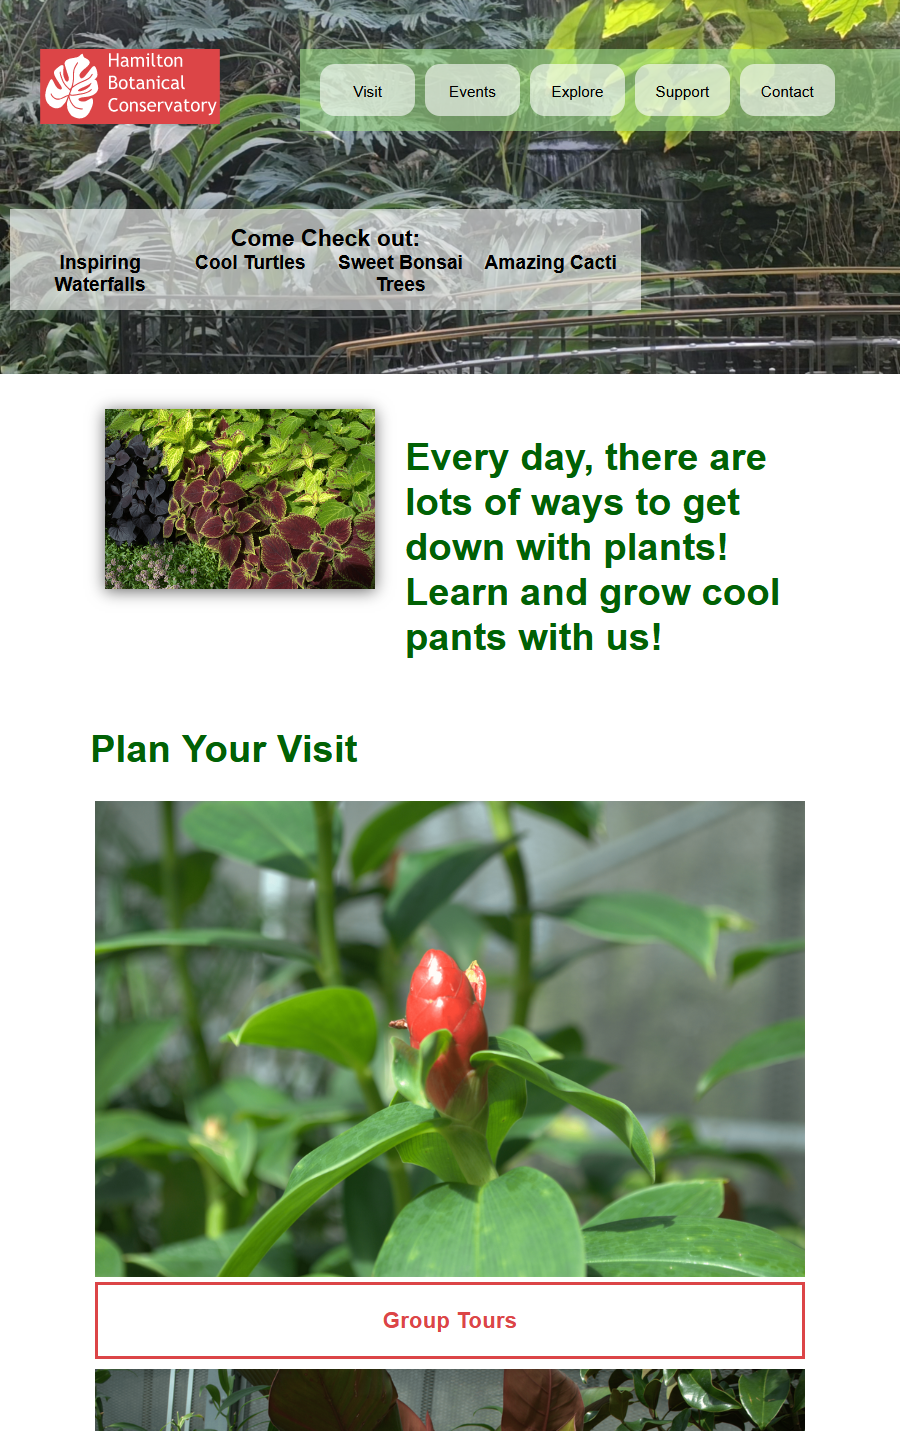
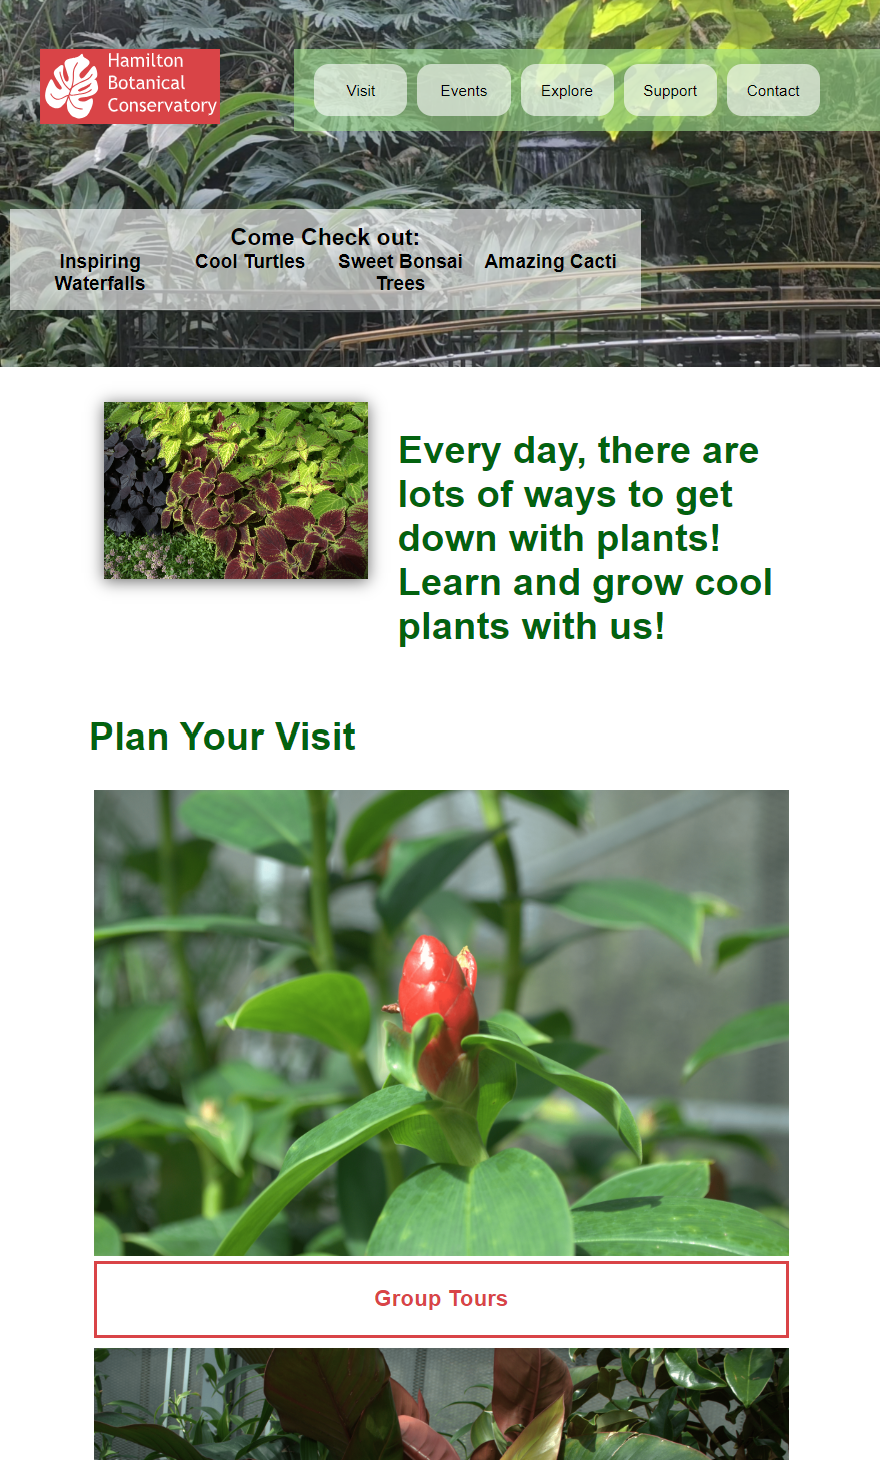
fixed typo on hbc_index.html

diff --git a/hbc/hbc_index.html b/hbc/hbc_index.html
@@ -213,7 +213,7 @@
                     <img class="drop-shad" src="../images/DSC_0008.png" width="3900" height="2613" alt="spotted leaves"/>
                 </div>
                 <div class="col-m-7 col-7">
-                    <h1>Every day, there are lots of ways to get down with plants! Learn and grow cool pants with us!</h1>
+                    <h1>Every day, there are lots of ways to get down with plants! Learn and grow cool plants with us!</h1>
                 </div>
             </div>
             <div class="row pyv">
